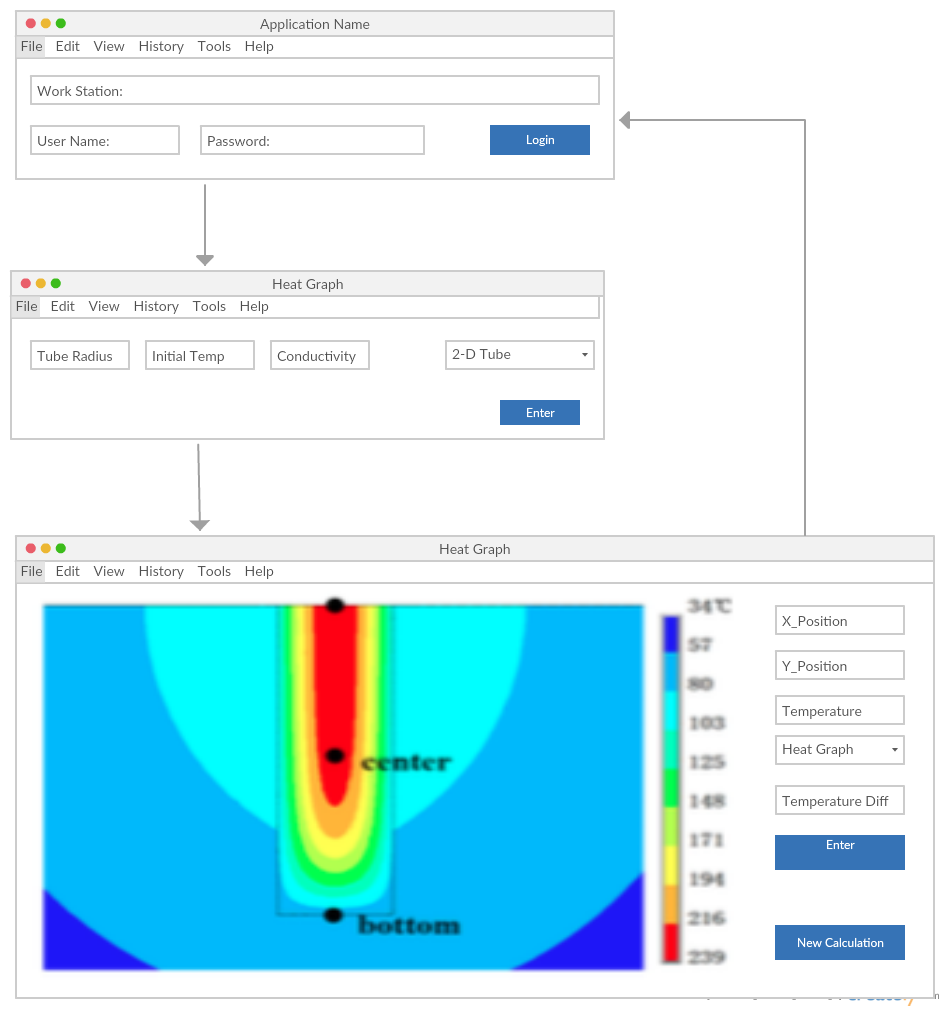
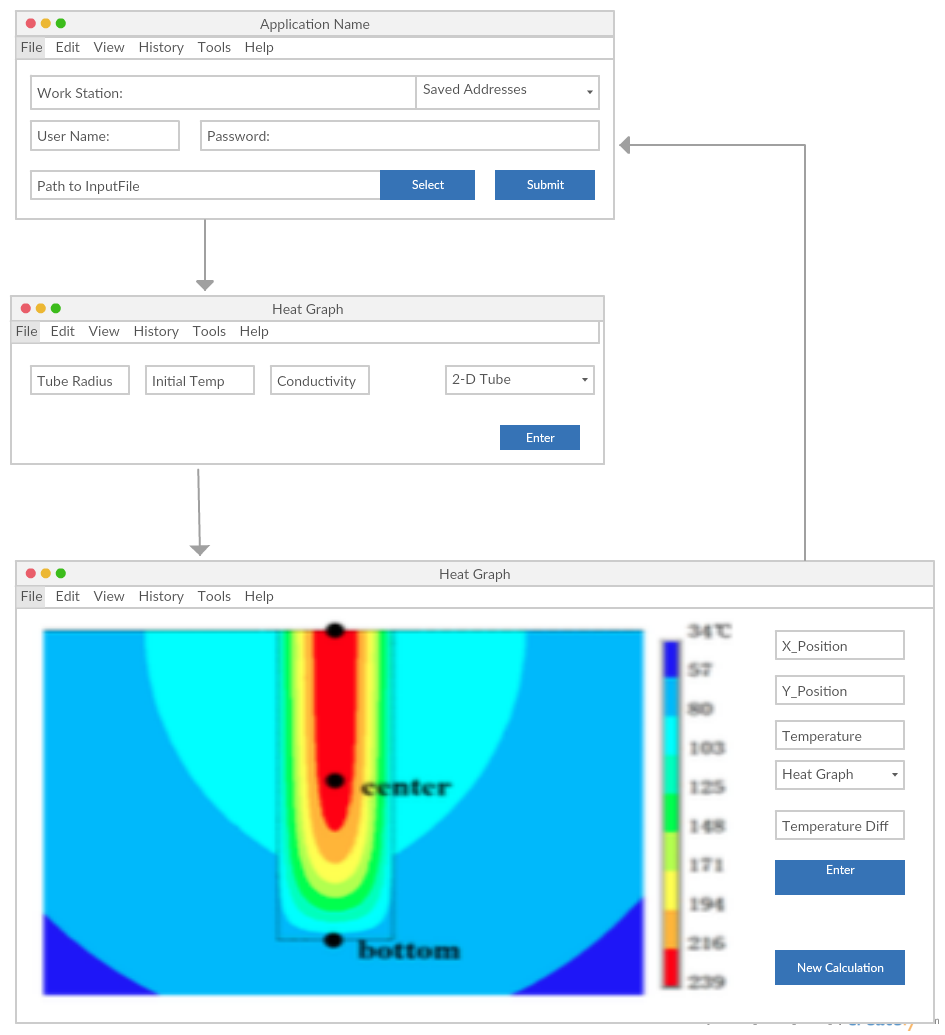
Updated after suggestions

diff --git a/requirement-analysis.md b/requirement-analysis.md
@@ -4,8 +4,7 @@ _Updated on 12/14 by Kuo Lu & Chris Qiao_
 ## 1. Introduction
 
 ### 1.1 Purpose of the system
-The purpose of the system is to produce heat diffusion simulation of the
-quenching in the production process of metallic glass.
+The purpose of the system is to produce heat diffusion simulation of the quenching in the production process of metallic glass.
 
 ### 1.2 Scope of the system
 The system may be accessed by researchers around the world.
@@ -21,20 +20,24 @@ After computation is done, the client software shall receive and read the binary
 
 
 ### 1.5 Overview
-A user can use client software to send initial conditions to the server.
+Manual and input template can both be found on Github repository.
+
+A user can use client software to send initial-condition xml file to the server. The template xml file has default values. It allows user to add/change constants, or add path to other files (such as matrix csv files) in the xml template.
+
 After the server finishes computations, it sends back the data file.
+
 The data file consists of hundreds of matrices with each one representing temperatures at 2-D locations at a specific time.
 The user can then use software to analyze data, for instance, show temperature difference between two different points at the same time on the graph, or show a graph of temperature vs. time at one specific position.
 
 ## 2. Proposed system
 ### 2.1 Overview
-Our client software will allow the user to login to the server on the supercomputer and enter initial conditions, such as initial temperature, tube radius, heat conductivity, reservoir temperature. It can also open any existing result files, display the cooling process and show analysis options.
+Our client software will allow the user to login to the server on the supercomputer and link initial-condition xml file, which includes properties such as initial temperature, tube radius, heat conductivity, reservoir temperature. It can also open any existing result files, display the cooling process and show analysis options.
 
 The server on the supercomputer receives initial-condition files, triggers computations, and send back the result file onto the user's computer. No result files will be saved on server computer.
 
 
 ### 2.2 Functional requirements
-The program asks the user to enter required information for simulation calculation, so it has to provide some text fields or lists to help the user input those information. After the calculation, the program produce a visualized video/image that shows temperature vs. time at each position.
+The program asks the user to enter required information for simulation calculation, so it has link to input xml file that has these values. After the calculation, the program produce a visualized video/image that shows temperature vs. time at each position.
 
 
 ### 2.3 Nonfunctional requirements

diff --git a/system-design-document.md b/system-design-document.md
@@ -5,12 +5,12 @@ _Updated on 12/12/16 by Kuo & Chris_
 1. The project is static: user only need to do reading, and should not modify result file.
 2. No database: we don't have a database since the user is using his existing account on Canaan, and the result file will be sent back to the user's own computer for analysis.
 3. Language: client software in Java, Server in C++. Java is good for building interface and can be interactive with the user. C++ is good for parallelizing algorithms and shortening computational time.
-4. Input and output: text, csv, and hdf5 binary files. client software will generate a initial-condition text file with user's inputs in the software. Matrices (such as conductivity vs temperature matrix) are in csv format, so that all inputs sent from the user to server will be in text files. The result file will be in hdf5 binary for the convenience of being read by different software (such as matlab) for complex analysis.
+4. Input and output: xml, csv, and hdf5 binary files. Client can find template xml file. He/she can fill in constants, initial conditions, or path to other matrix files (such as conductivity vs temperature matrix). Matrix files are in csv format, so that all inputs sent from the user to server will be in text files. The result file will be in hdf5 binary for the convenience of being read by different software (such as matlab) for complex analysis.
 
 ##### 1. client software design
 1. The main functionality of the the client software is to analysis the calculated result file from the server. It reads the data file and translate the data into pixel data that will be used to generate heat graphs.
 2. The second functionality is to log in the server, because in order to use the server, we have to log in using user name, password and the ip address of the workstation.
-3. The third functionality is to read inputs(initial conditions for calculation) from the user.
+3. The third functionality is to send inputs(initial conditions for calculation) to the server.
 
 ![Image of user class diagram](diagrams/classDiagram_user.png)
 ##### 2. Server class design
